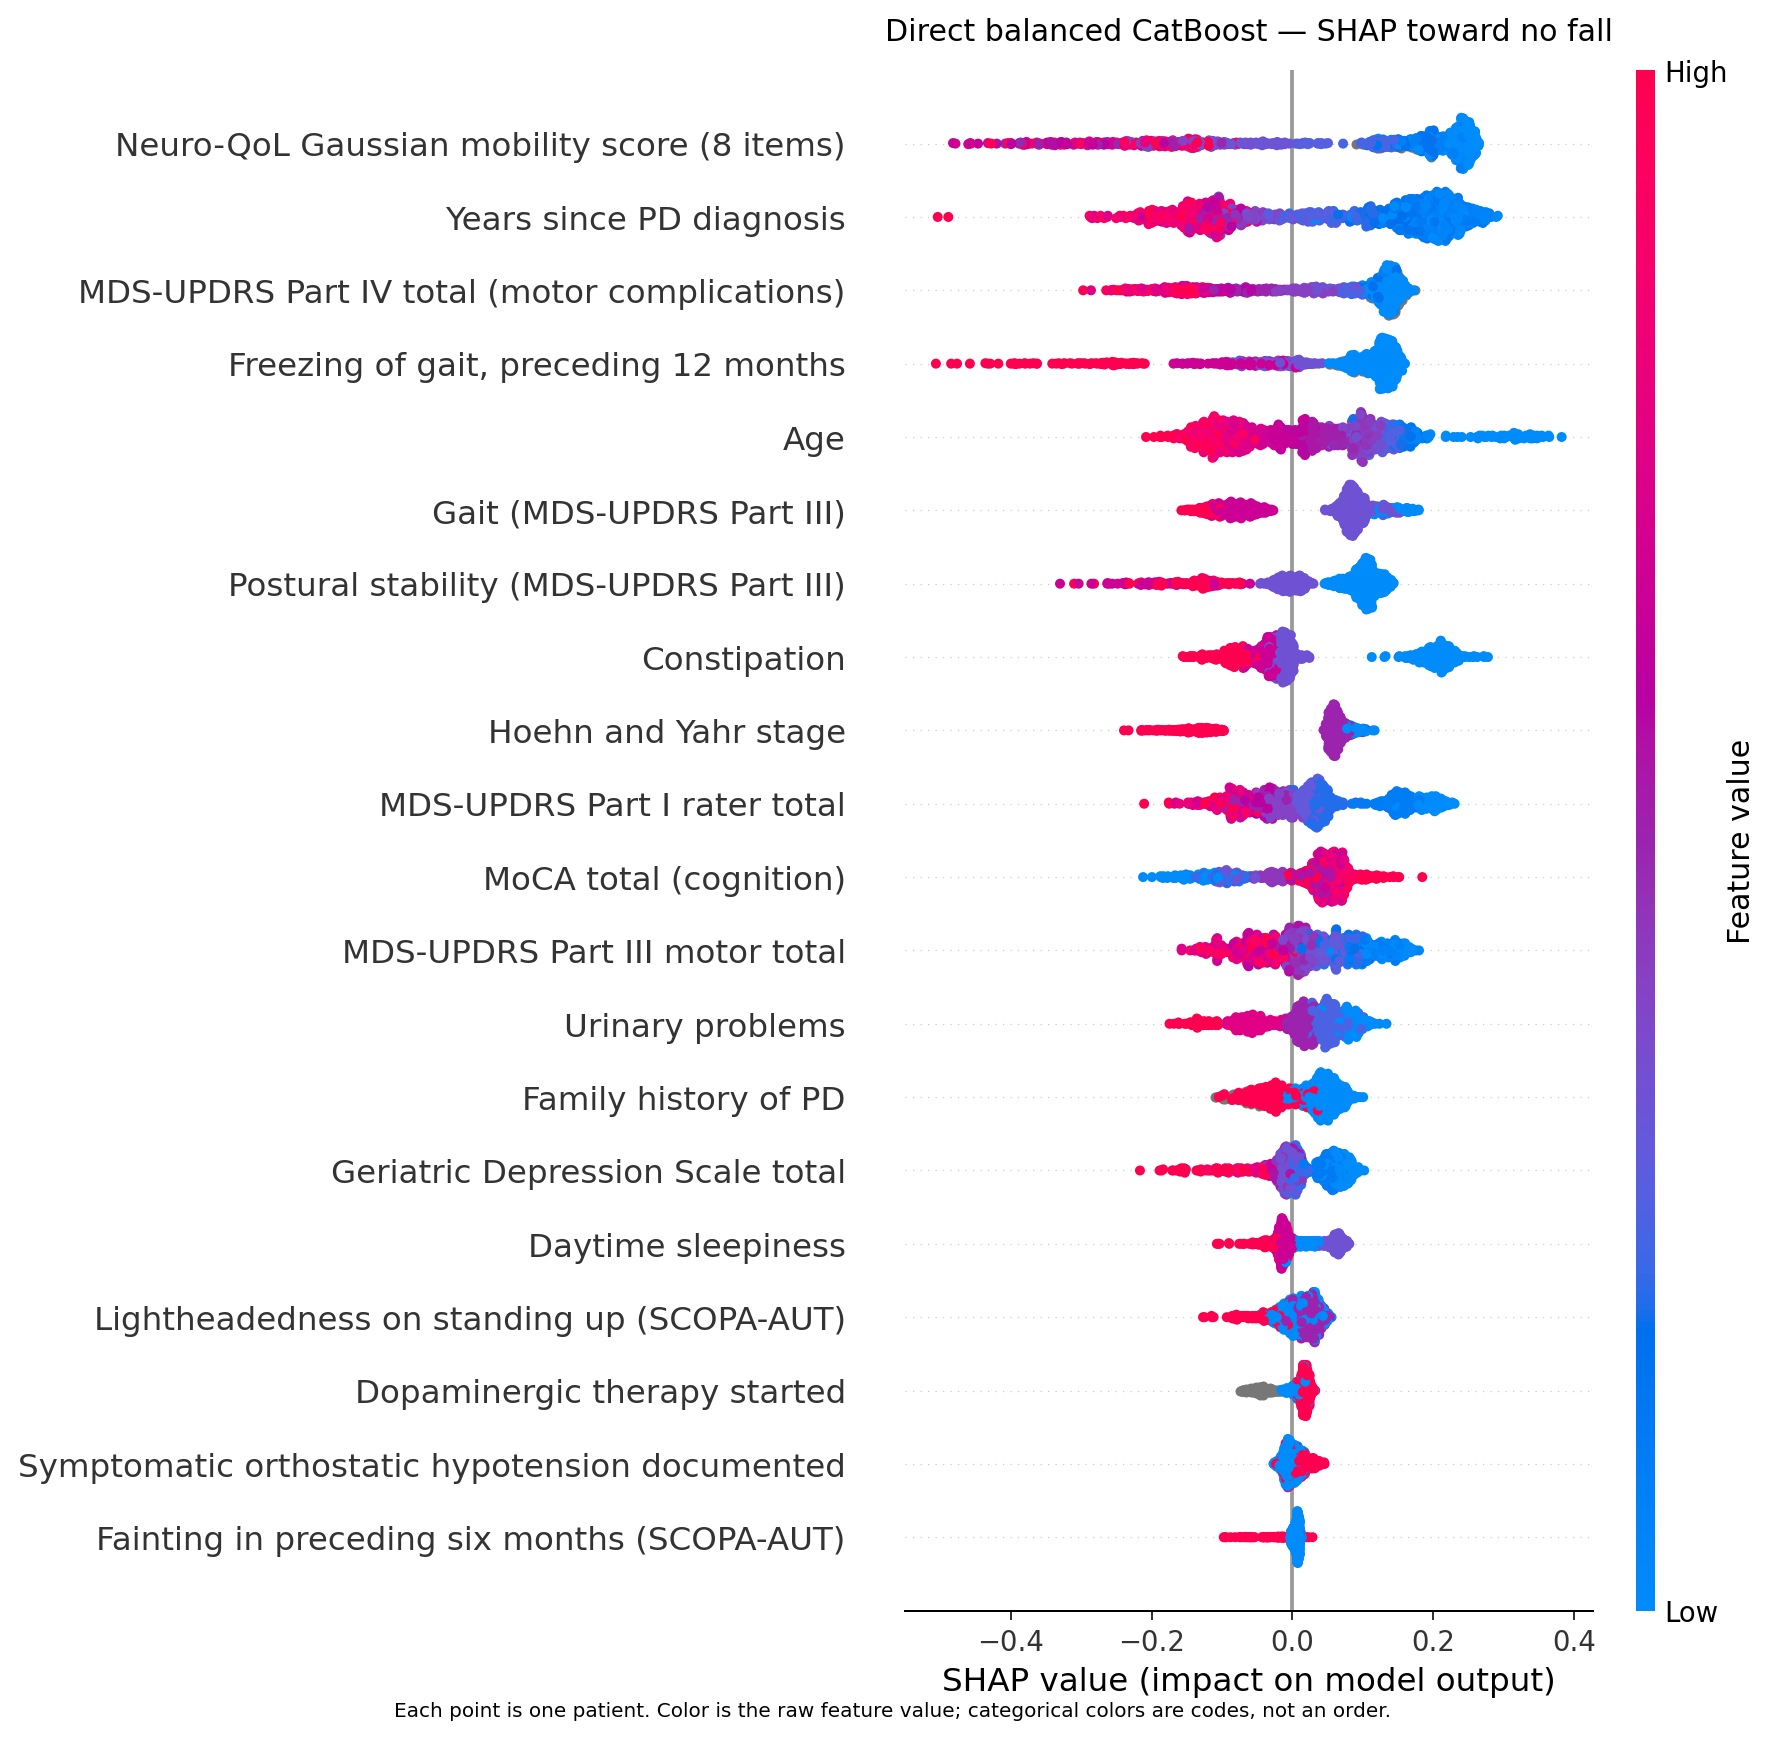
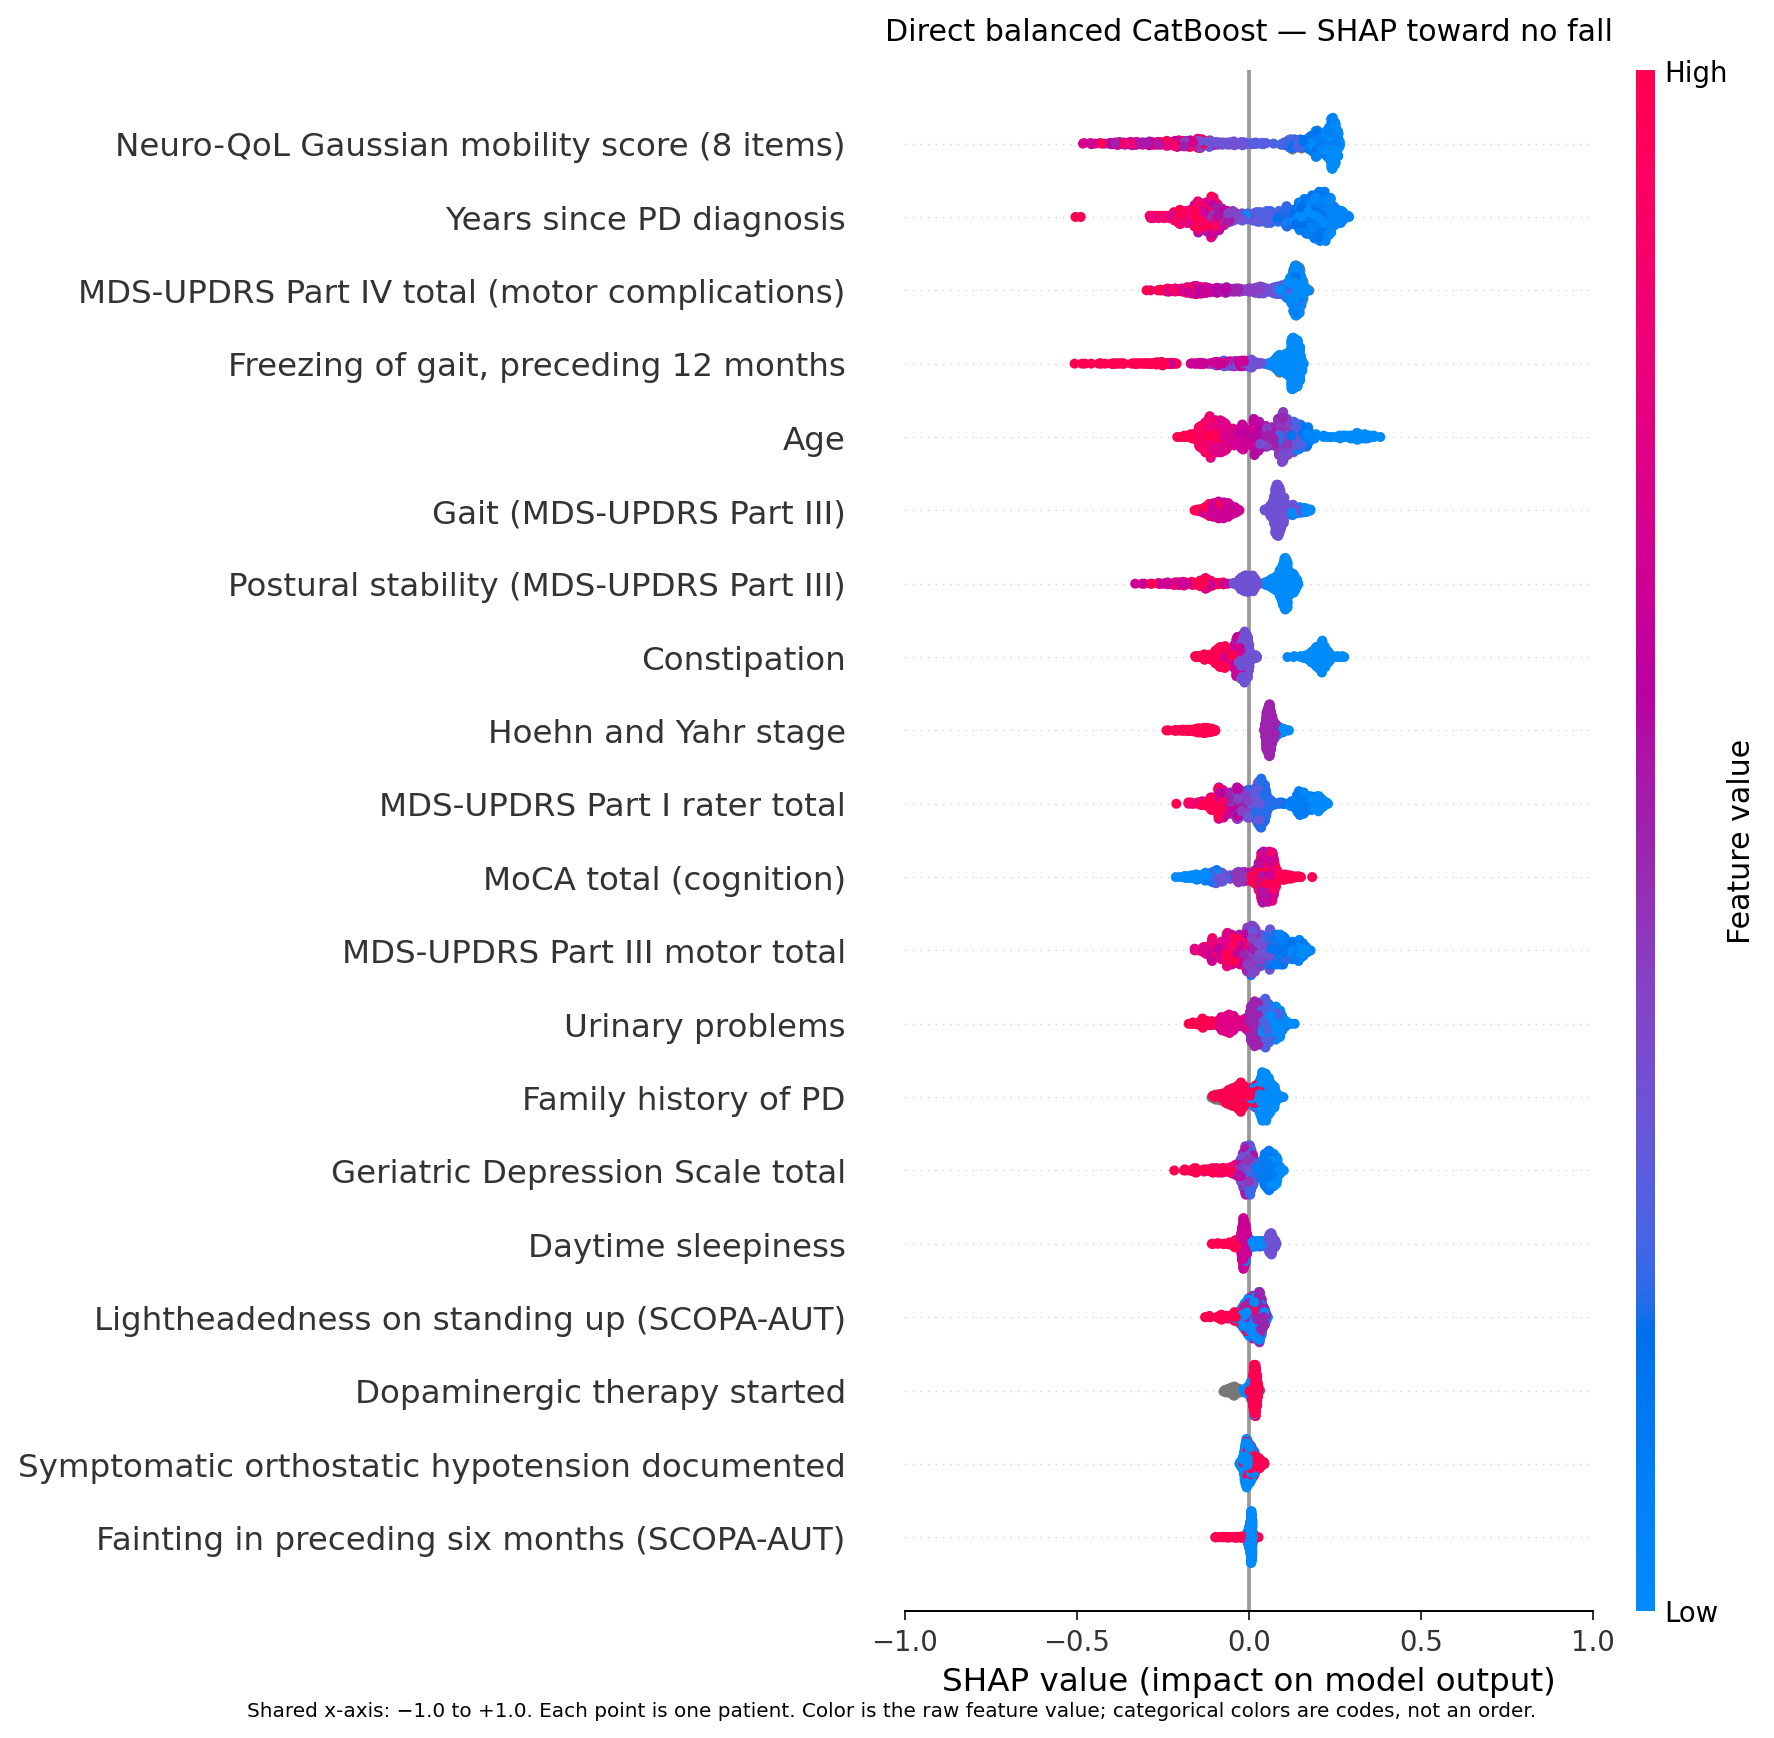
Standardize SHAP beeswarm axes

diff --git a/docs/decision_register.md b/docs/decision_register.md
@@ -55,7 +55,7 @@ workflow in `notebooks/04_final_pipeline/06_final_run/`.
 | D26 | Final Notebook 09 reruns the unchanged Notebook 05–07 procedure once on all 1,040 patients. It uses Notebook 03's fold rule (numeric patient order, five stratified folds) with seed 42 and the same stage seed formulas, then refits the direct, Stage 1, and Stage 2 winners with seed 500042. A gate first reruns seed 0's saved outer-training partition and must reproduce the saved Notebook 05, 06, and 07 decisions exactly. Models are saved with `cloudpickle` so they reload without notebook definitions, and a fresh-process reload must reproduce their predictions. Full-cohort selection scores and training-set predictions are not performance estimates. Model files may contain derived patient-level values (for example, SVC support vectors) and remain under PPMI data-use terms. | Final full-cohort artifacts | The 26-feature rerun passed 13/13 checks. The direct artifact is balanced CatBoost with corrected-FDR selection; Stage 1 is balanced Extra Trees with corrected-FDR selection; Stage 2 is unweighted random forest with median-threshold Extra-Trees selection. The three files and verified hashes are recorded in `results/final_pipeline/06_final_fit_and_performance_summary/09_full_cohort_fit/models/model_manifest.json`. |
 | D27 | Final Notebook 10 explains the Notebook 09 models without changing them. Importance is grouped out-of-fold permutation importance: clones of the saved pipelines are refitted on four of the five seed-42 folds, and each source variable (the Neuro-QoL Gaussian score alone, after D28) is shuffled 10 times in the held-out fold. It reports the drop in macro F1 and rare-fall recall for the direct and two-stage systems and each stage. Held-out scoring avoids in-sample inflation from the unlimited-depth Stage 2 forest. It also reports final retention and selection frequency across the 20 Notebook 07 refits. SHAP was not used because `shap` is not installed. Importance is descriptive and non-causal. | Final model interpretation | Completed on the 26-feature run on 25 September 2026; 6/6 checks passed. Direct macro-F1 importance was highest for constipation, freezing, the Neuro-QoL composite, age, and Part III motor total. Two-stage importance was highest for freezing, Part IV complications, and the Neuro-QoL composite. These findings cannot redefine the frozen model. |
 | D28 | **Candidate-set amendment before the final rerun.** The 33-feature universe contained the revision's 8-item Neuro-QoL Gaussian mobility score (`NQ_GAUSSIAN_REVISION`: Gaussian weights centred at 2.5, width 1.2, averaged over the 8 items and multiplied by 8) *and* seven of its own items (`NQMOB37, 30, 26, 32, 33, 31, 28`) as separate candidates. The raw items entered only because the paper-aligned union also included every variable the legacy work screened. The published and revision models used the composite alone. Remove the seven raw items: the primary universe becomes **26 features** (25 paper-aligned variables plus maximum eligible `NP1CNST`). The three Neuro-QoL PCA engineering branches are removed because they compressed those items. The reason is construct redundancy and fidelity to the published representation, not performance. The amended run becomes the primary analysis **regardless of whether its results are better or worse** than the superseded 33-feature run. The Part III total, gait, and postural stability are all kept because the published model used all three; their overlap is documented. Splits, seeds, frozen grids, selection rules, and the five sensitivity definitions are unchanged. The 33-feature results are archived as superseded and disclosed in the final report. | Final candidate universe | Approved 25 September 2026. Notebooks 01–11 are complete on the 26-feature design and passed their saved validation checks. The 33-feature outputs are archived under `results/final_pipeline/superseded_33_feature_run_2026-09-25/`, and the current final report uses only the 26-feature artifacts.  |
-| D29 | Explain the frozen full-cohort direct, Stage 1, and Stage 2 tree models separately with SHAP. Sum encoded-column contributions back to their clinical source groups and verify exact additivity. Do not combine Stage 1 and Stage 2 SHAP values because hard routing is not additive. These explanations cannot select models or estimate performance. Patient-level SHAP arrays and identifiers remain governed PPMI-derived data. Class-specific figures use beeswarms containing every retained clinical group and name the fitted model; the direct all-class figure remains a complete magnitude overview. | Final SHAP and LLM handoff | Notebook 12 v2 completed on 25 September 2026; 8/8 checks passed. |
+| D29 | Explain the frozen full-cohort direct, Stage 1, and Stage 2 tree models separately with SHAP. Sum encoded-column contributions back to their clinical source groups and verify exact additivity. Do not combine Stage 1 and Stage 2 SHAP values because hard routing is not additive. These explanations cannot select models or estimate performance. Patient-level SHAP arrays and identifiers remain governed PPMI-derived data. Class-specific figures use beeswarms containing every retained clinical group, name the fitted model, and share the `-1.0` to `+1.0` x-axis derived from the largest plotted absolute SHAP value; the direct all-class figure remains a complete magnitude overview. | Final SHAP and LLM handoff | Notebook 12 v3 completed on 29 September 2026; 9/9 checks passed. |
 | D30 | Replace the revision-era GitHub export with the final 26-feature workflow. Include Notebooks 01–12, the raw inputs required to reproduce them, validated saved state, final models, synchronized documentation, and the updated LLM handoff. The user confirmed that public sharing of the patient-level handoff artifacts is permitted. Exclude the obsolete ablation report, delta workflow, revision notebooks, and superseded outputs. | Final repository export | Committed and pushed to `main` on 25 September 2026; the replacement commit is `b4e43ac`. |
 
 

diff --git a/docs/current_state.md b/docs/current_state.md
@@ -35,7 +35,7 @@ the 26-feature design. Saved validations passed:
 | 09 full-cohort fit | 13/13 |
 | 10 model interpretation | 6/6 |
 | 11 final performance summary | 7/7 |
-| 12 SHAP and LLM handoff | 8/8 |
+| 12 SHAP and LLM handoff | 9/9 |
 
 Notebook 11 consolidated the saved performance, sensitivity, statistical,
 selection-frequency, full-fit, and interpretation results without refitting
@@ -43,12 +43,13 @@ or selecting models. Its results agree with the current final report.
 
 Notebook 12 explains the frozen direct, Stage 1, and Stage 2 models
 separately, verifies SHAP additivity, and packages grouped clinical
-contributions plus restricted patient-level handoff artifacts. All 8 saved
-checks passed. Its v2 figures retain one all-class direct overview and use
+contributions plus restricted patient-level handoff artifacts. All 9 saved
+checks passed. Its v3 figures retain one all-class direct overview and use
 full beeswarms for all three direct classes, Stage 1 any-fall, and Stage 2
-recurrent-fall outputs. Every figure names the fitted model and includes all
-clinical groups retained by that model. The methodological limitations are
-maintained separately in `docs/final_run/methodological_limitations.md`.
+recurrent-fall outputs. All five beeswarms use a shared `-1.0` to `+1.0`
+x-axis range. Every figure names the fitted model and includes all clinical
+groups retained by that model. The methodological limitations are maintained
+separately in `docs/final_run/methodological_limitations.md`.
 
 ## Current evidence
 

diff --git a/docs/final_run/final_run_plan.md b/docs/final_run/final_run_plan.md
@@ -143,7 +143,7 @@ trail; the final export uses the following clean execution order:
 | 09 | `09_full_cohort_fit.ipynb` | Final-run full-cohort fit | Rerun internal selection on all 1,040 patients and fit the seed-42 direct and two-stage artifacts |
 | 10 | `10_model_interpretation.ipynb` | Final-run interpretation | Produce final model explanations and feature summaries without redefining the model |
 | 11 | `11_final_performance_summary.ipynb` | Complete; 7/7 checks passed | Summarize performance, sensitivities, statistical analysis, selected features, and model frequencies |
-| 12 | `12_shap_and_llm_handoff.ipynb` | Complete; 8/8 checks passed | Explain the frozen direct and two-stage components with SHAP and package the governed LLM handoff artifacts |
+| 12 | `12_shap_and_llm_handoff.ipynb` | Complete; 9/9 checks passed | Explain the frozen direct and two-stage components with SHAP on a shared beeswarm x-axis and package the governed LLM handoff artifacts |
 
 All final publication notebooks live together in
 `notebooks/04_final_pipeline/06_final_run/`. Their filenames match the final

diff --git a/docs/final_run/final_results_report.md b/docs/final_run/final_results_report.md
@@ -460,7 +460,11 @@ across the three class outputs. Each beeswarm point is one patient. Position
 on the horizontal axis shows whether the contribution pushes the named model
 output higher or lower, while color shows the raw feature value. For
 categorical variables, colors represent category codes rather than a clinical
-ordering.
+ordering. All five beeswarms use the same `-1.0` to `+1.0` horizontal range,
+chosen from the largest observed absolute plotted SHAP value (0.895) with
+rounded outward padding. The common range makes spread visually consistent;
+the direct multiclass and two-stage component values still use their own model
+output scales and should not be interpreted as exactly interchangeable units.
 
 **Direct balanced CatBoost: all retained features across all classes**
 
